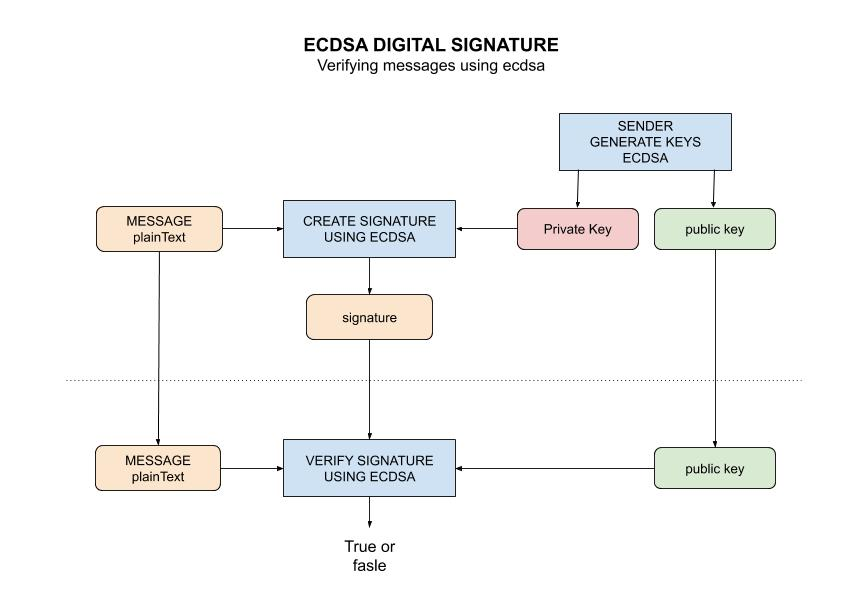
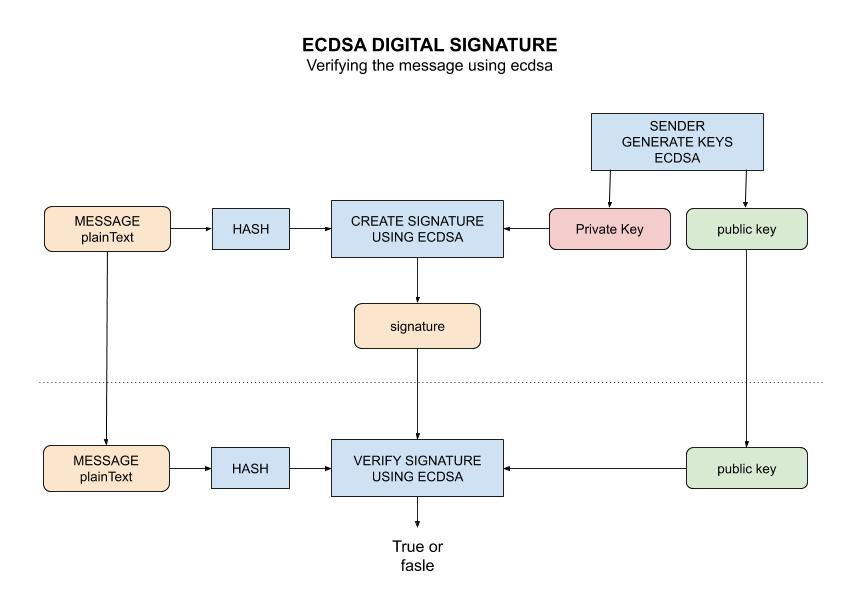
cleaned up asymmetric-cryptography

diff --git a/cryptography/asymmetric-cryptography/ecdsa-digital-signature/ecdsa-digital-signature.go b/cryptography/asymmetric-cryptography/ecdsa-digital-signature/ecdsa-digital-signature.go
@@ -11,8 +11,6 @@ import (
 	"errors"
 	"flag"
 	"fmt"
-	"hash"
-	"io"
 	"io/ioutil"
 	"math/big"
 
@@ -55,16 +53,18 @@ func generateECDSAKeys() (*ecdsa.PrivateKey, *ecdsa.PublicKey) {
 func createSignature(senderPrivateKeyRaw *ecdsa.PrivateKey, plainText string) string {
 
 	// HASH plainText
-	var h hash.Hash
-	h = sha256.New()
-	io.WriteString(h, plainText)
-	signHash := h.Sum(nil)
+	hashedPlainText := sha256.Sum256([]byte(plainText))
+	hashedPlainTextByte := hashedPlainText[:]
 
-	// CREATE SIGNATURE
 	r := big.NewInt(0)
 	s := big.NewInt(0)
 
-	r, s, err := ecdsa.Sign(rand.Reader, senderPrivateKeyRaw, signHash)
+	// CREATE SIGNATURE
+	r, s, err := ecdsa.Sign(
+		rand.Reader,
+		senderPrivateKeyRaw,
+		hashedPlainTextByte,
+	)
 	checkErr(err)
 
 	signatureByte := r.Bytes()
@@ -80,22 +80,26 @@ func createSignature(senderPrivateKeyRaw *ecdsa.PrivateKey, plainText string) st
 func verifySignature(senderPublicKeyRaw *ecdsa.PublicKey, signature string, plainText string) bool {
 
 	// HASH plainText
-	var h hash.Hash
-	h = sha256.New()
-	io.WriteString(h, plainText)
-	signHash := h.Sum(nil)
+	hashedPlainText := sha256.Sum256([]byte(plainText))
+	hashedPlainTextByte := hashedPlainText[:]
 
 	// DECODE signature
 	signatureByte, _ := hex.DecodeString(signature)
 
-	// VERIFY SIGNATURE
+	// EXTRACT R & S
 	r := big.NewInt(0)
 	s := big.NewInt(0)
 	sigLen := len(signatureByte)
 	r.SetBytes(signatureByte[:(sigLen / 2)])
 	s.SetBytes(signatureByte[(sigLen / 2):])
 
-	verifyStatus := ecdsa.Verify(senderPublicKeyRaw, signHash, r, s)
+	// VERIFY SIGNATURE
+	verifyStatus := ecdsa.Verify(
+		senderPublicKeyRaw,
+		hashedPlainTextByte,
+		r,
+		s,
+	)
 
 	return verifyStatus
 

diff --git a/cryptography/asymmetric-cryptography/rsa-asymmetric-cryptography-with-digital-signature/rsa-asymmetric-cryptography-with-digital-signature.go b/cryptography/asymmetric-cryptography/rsa-asymmetric-cryptography-with-digital-signature/rsa-asymmetric-cryptography-with-digital-signature.go
@@ -98,18 +98,18 @@ func createSignature(senderPrivateKeyRaw *rsa.PrivateKey, plainText string) stri
 
 	var opts rsa.PSSOptions
 	opts.SaltLength = rsa.PSSSaltLengthAuto
-	PSSmessage := []byte(plainText)
+
+	// HASH plainText
 	newhash := crypto.SHA256
-	pssh := newhash.New()
-	pssh.Write(PSSmessage)
-	hashed := pssh.Sum(nil)
+	hashedPlainText := sha256.Sum256([]byte(plainText))
+	hashedPlainTextByte := hashedPlainText[:]
 
 	// CREATE SIGNATURE
 	signatureByte, err := rsa.SignPSS(
 		rand.Reader,
 		senderPrivateKeyRaw,
 		newhash,
-		hashed,
+		hashedPlainTextByte,
 		&opts,
 	)
 	checkErr(err)
@@ -130,17 +130,17 @@ func verifySignature(senderPublicKeyRaw *rsa.PublicKey, signature string, plainT
 
 	var opts rsa.PSSOptions
 	opts.SaltLength = rsa.PSSSaltLengthAuto
-	PSSmessage := []byte(plainText)
+
+	// HASH plainText
 	newhash := crypto.SHA256
-	pssh := newhash.New()
-	pssh.Write(PSSmessage)
-	hashed := pssh.Sum(nil)
+	hashedPlainText := sha256.Sum256([]byte(plainText))
+	hashedPlainTextByte := hashedPlainText[:]
 
 	// VERIFY SIGNATURE
 	err := rsa.VerifyPSS(
 		senderPublicKeyRaw,
 		newhash,
-		hashed,
+		hashedPlainTextByte,
 		signatureByte,
 		&opts,
 	)

diff --git a/README.md b/README.md
@@ -207,6 +207,8 @@ _Using c with go._
 
 * ASYMMETRIC CRYPTOGRAPHY
 
+  _Great for digital signatures (verify sender) and receiving encrypted data_
+
   * [ecdsa-digital-signature](https://github.com/JeffDeCola/my-go-examples/tree/master/cryptography/asymmetric-cryptography/ecdsa-digital-signature)
   
     _To verify who a message is from,
@@ -228,6 +230,8 @@ _Using c with go._
 
 * HASHING
 
+  _Great for getting fingerprints_
+
   * [md5-hash-from-file](https://github.com/JeffDeCola/my-go-examples/tree/master/cryptography/hashing/md5-hash-from-file)
 
     _Get an md5 hash (fingerprint) from an input file using the standard
@@ -241,6 +245,8 @@ _Using c with go._
     `crypto/sha256` package_.
 
 * SYMMETRIC CRYPTOGRAPHY
+
+  _Great when using 1 key_
 
   _Using the same key to encrypt and decrypt_
 
